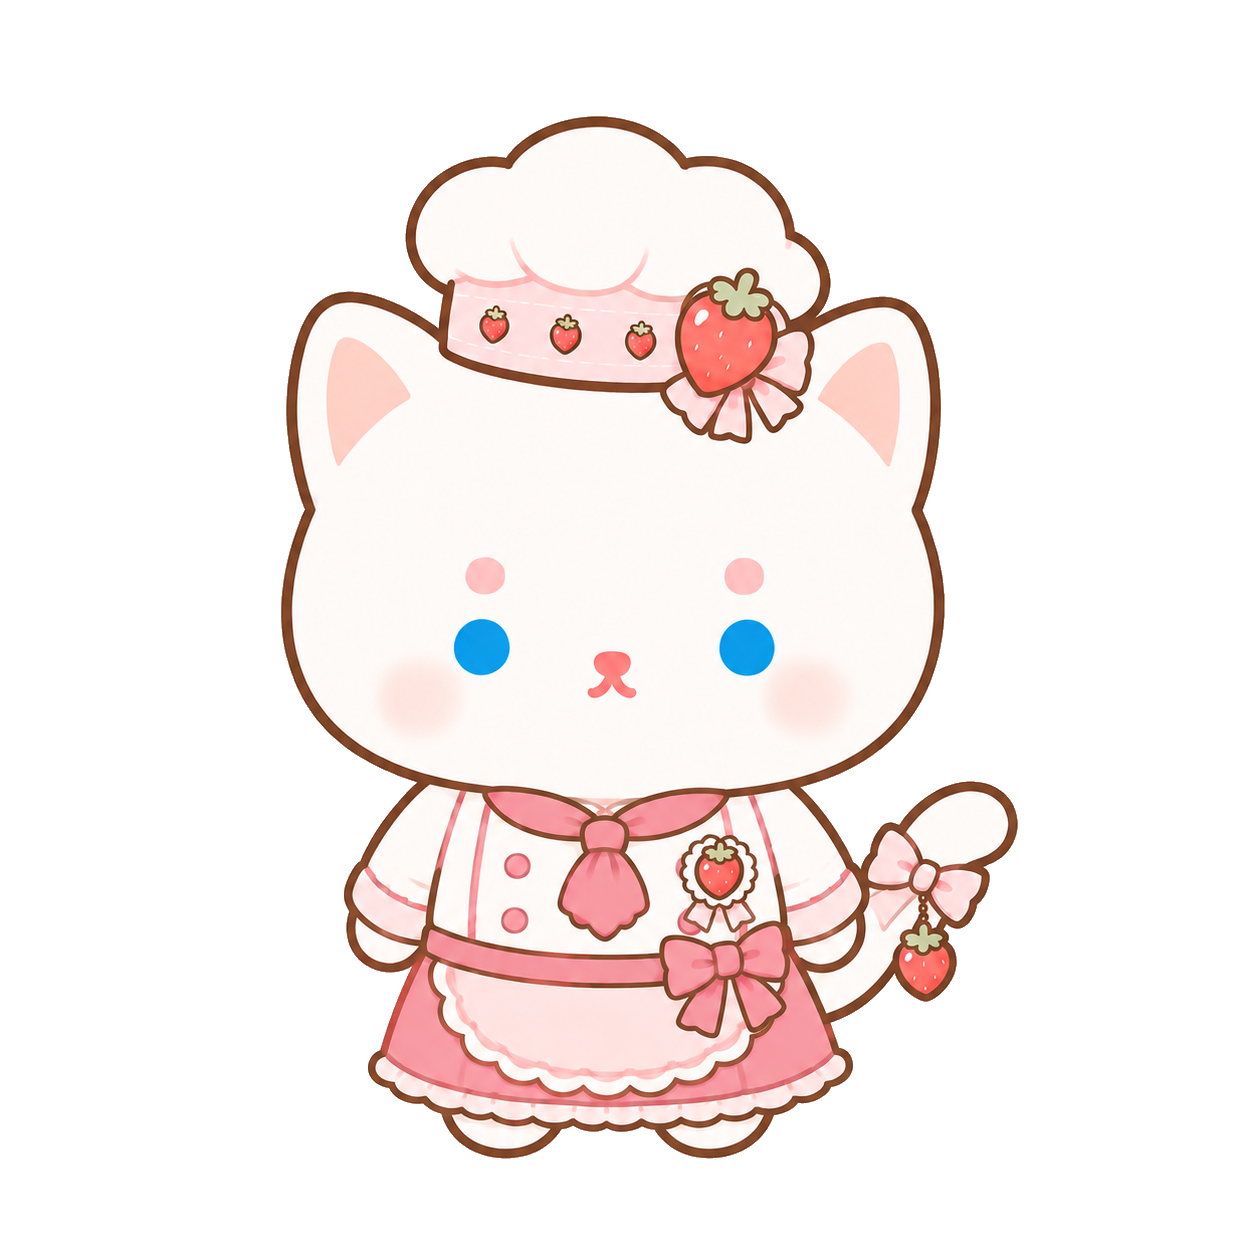
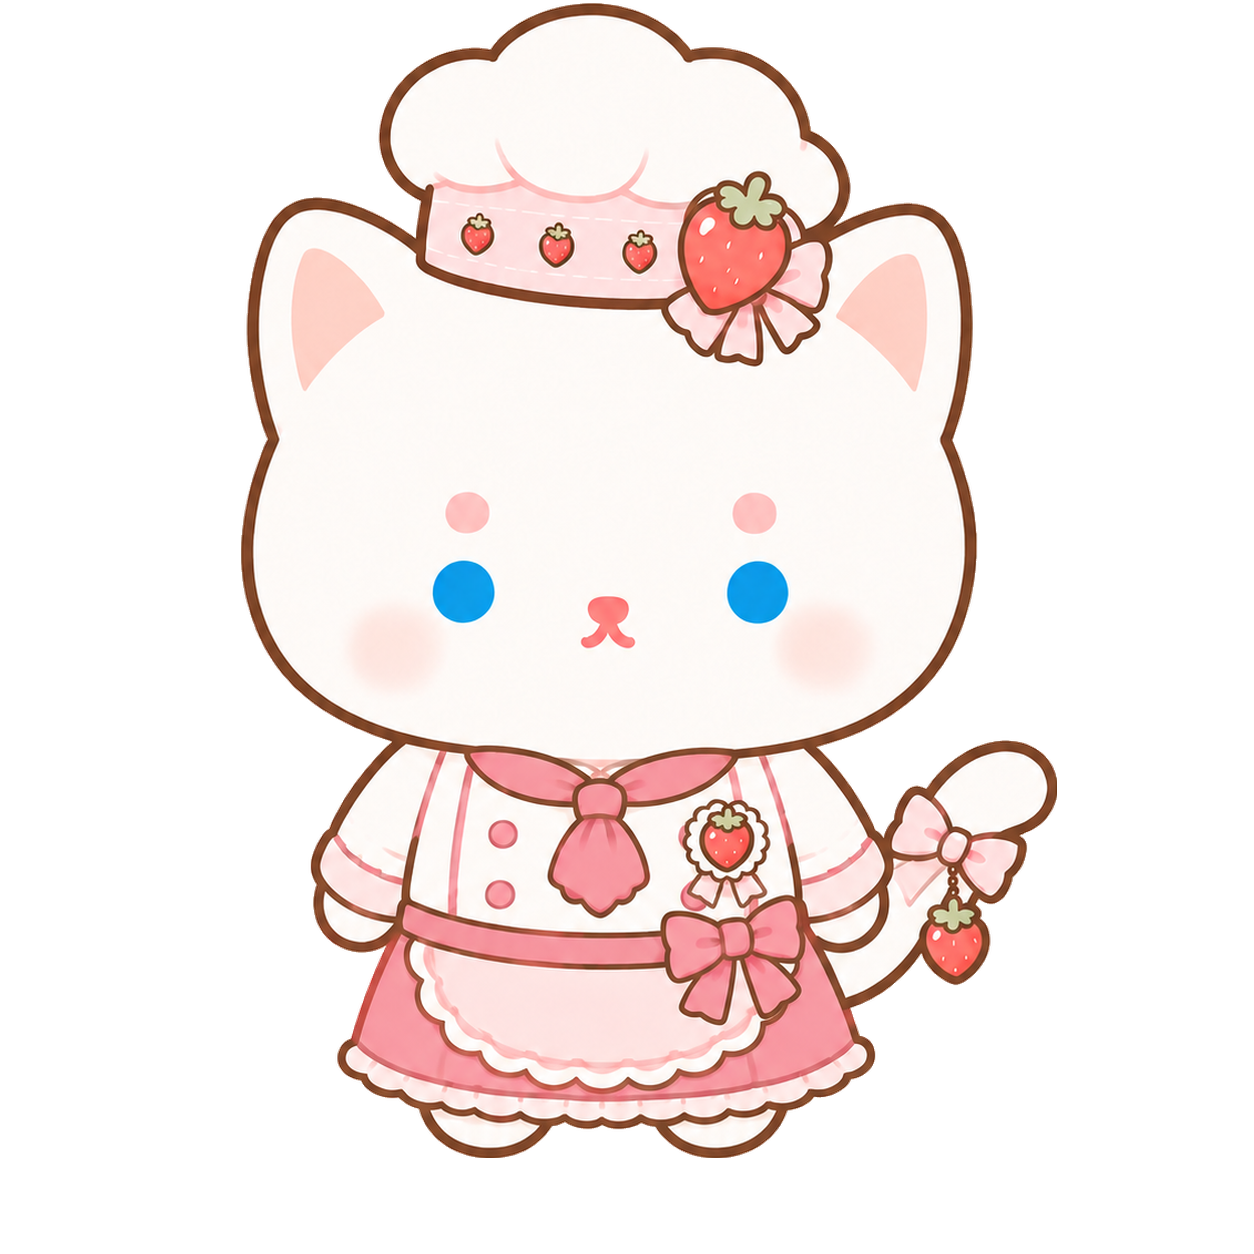
fix(bun): enlarge chef classic so hat doesn't shrink the cat
Bun's classic wears a tall chef hat, so head-for-head it read smaller than
the hatless skins. Scaled the artwork up ~11% (capped by canvas headroom)
to match the other outfits' head size; feet stay on the shared line.
Metrics re-measured.

diff --git a/src/constants/figure-calibration.ts b/src/constants/figure-calibration.ts
@@ -5,7 +5,7 @@
 // src/lib/figure-height.ts to equalize figure heights in the study room.
 export const FIGURE_METRICS: Record<string, { fill: number; pad: number }> = {
   'bun/angel': { fill: 0.8605, pad: 0.0706 },
-  'bun/classic': { fill: 0.8317, pad: 0.0758 },
+  'bun/classic': { fill: 0.9211, pad: 0.0766 },
   'bun/dreams': { fill: 0.8644, pad: 0.0758 },
   'bun/snowrabbit': { fill: 0.8309, pad: 0.0766 },
   'bun/strawberry': { fill: 0.7974, pad: 0.0766 },
